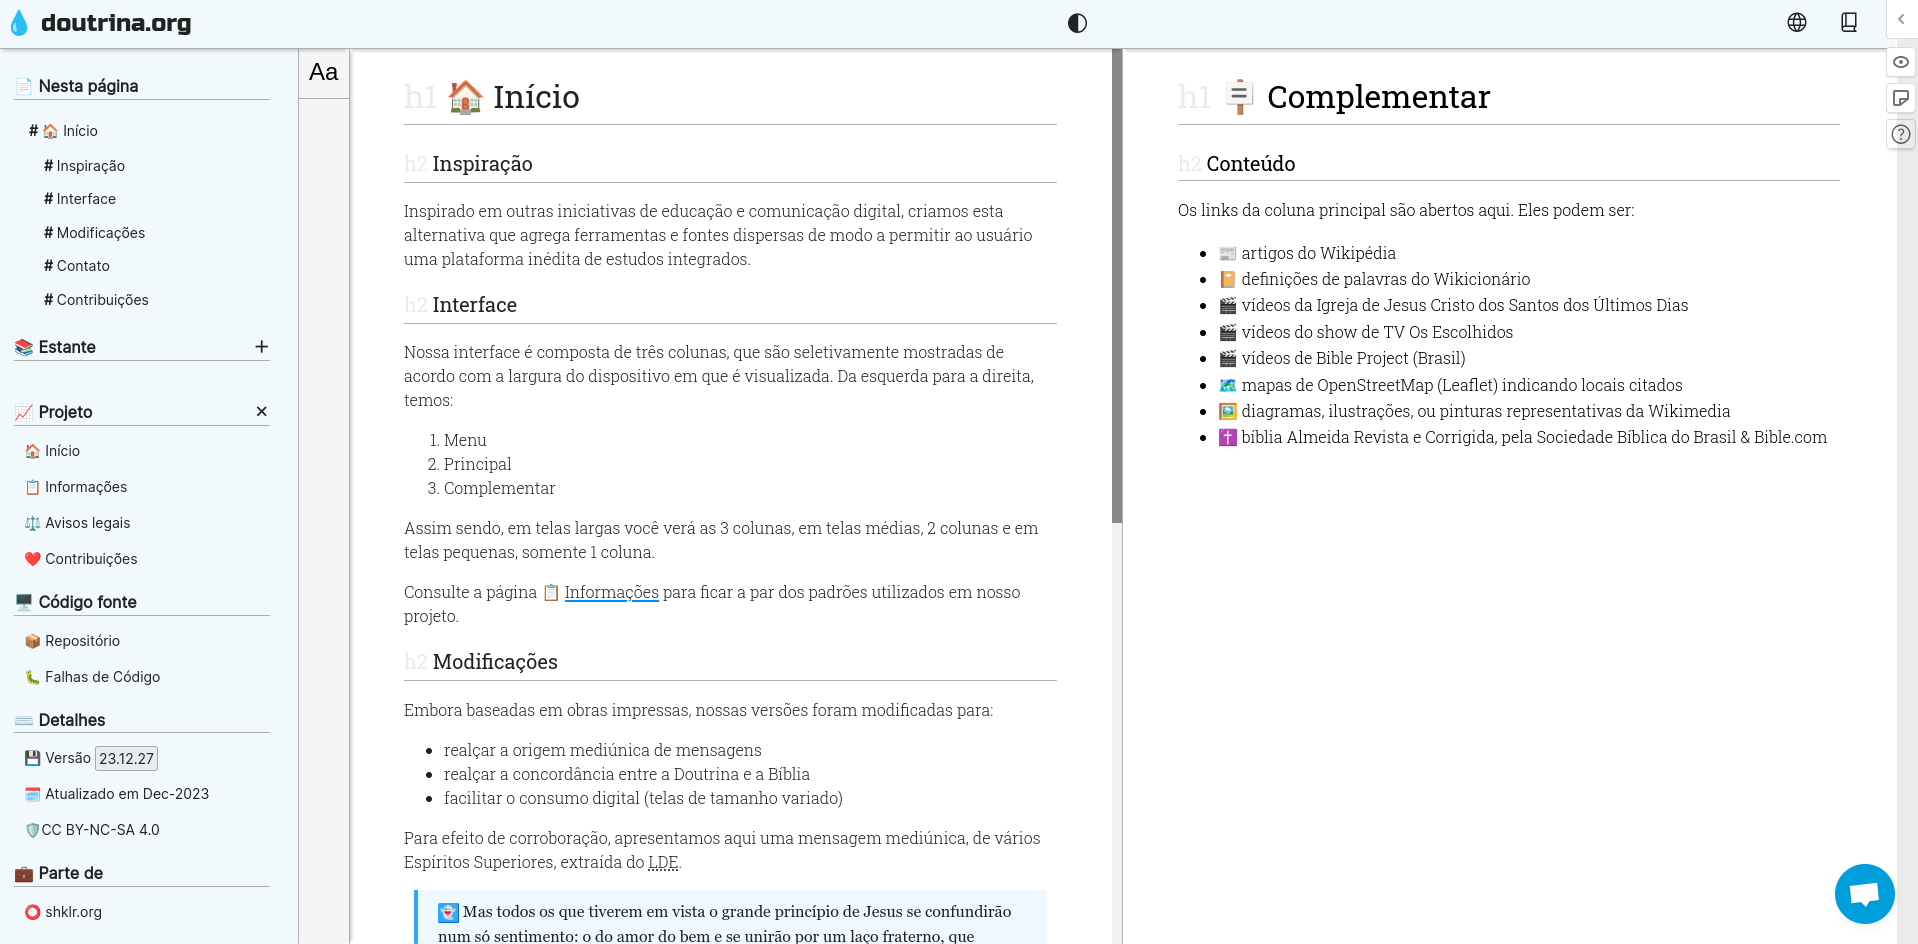
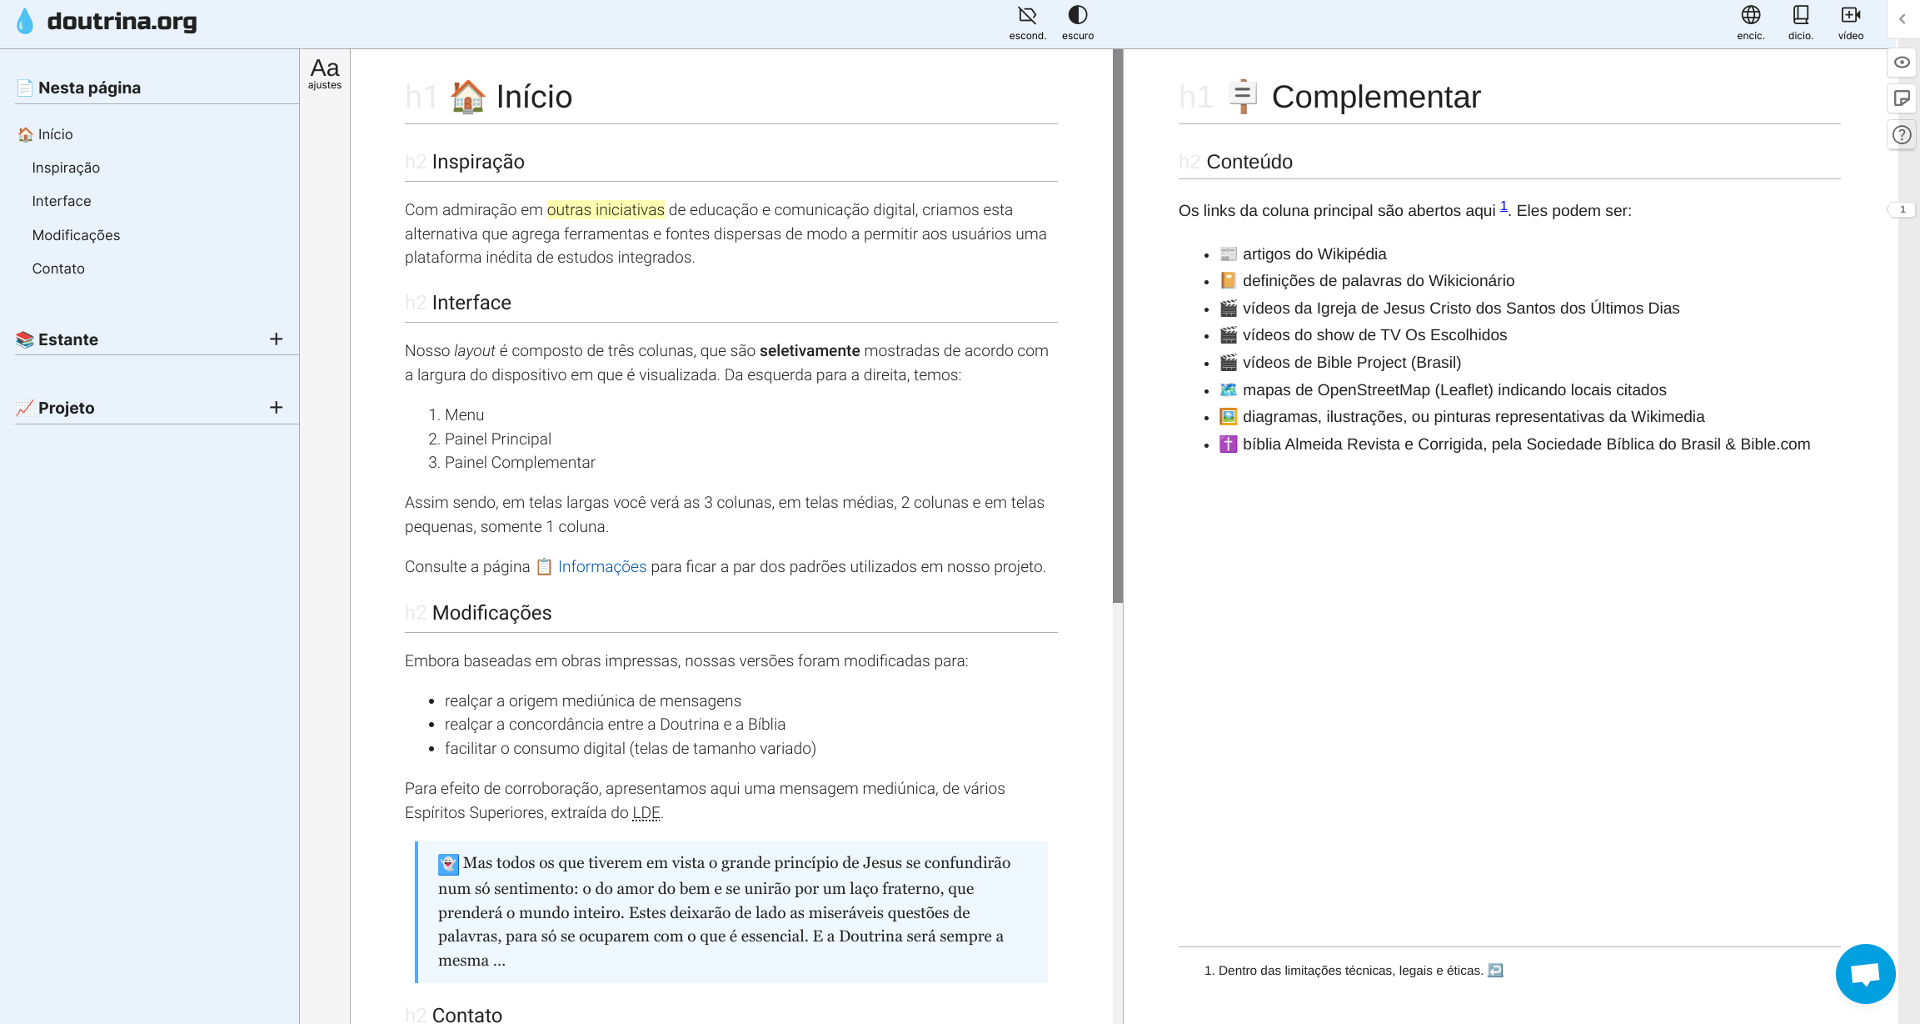
pwa screenshots

diff --git a/css/styles.css b/css/styles.css
@@ -844,7 +844,7 @@ button.tools {
     }
 }
 
-@media only screen and (max-width: 500px) {
+@media only screen and (max-width: 850px) {
 
     #col2-brand>span.label2 {
         display: none;
